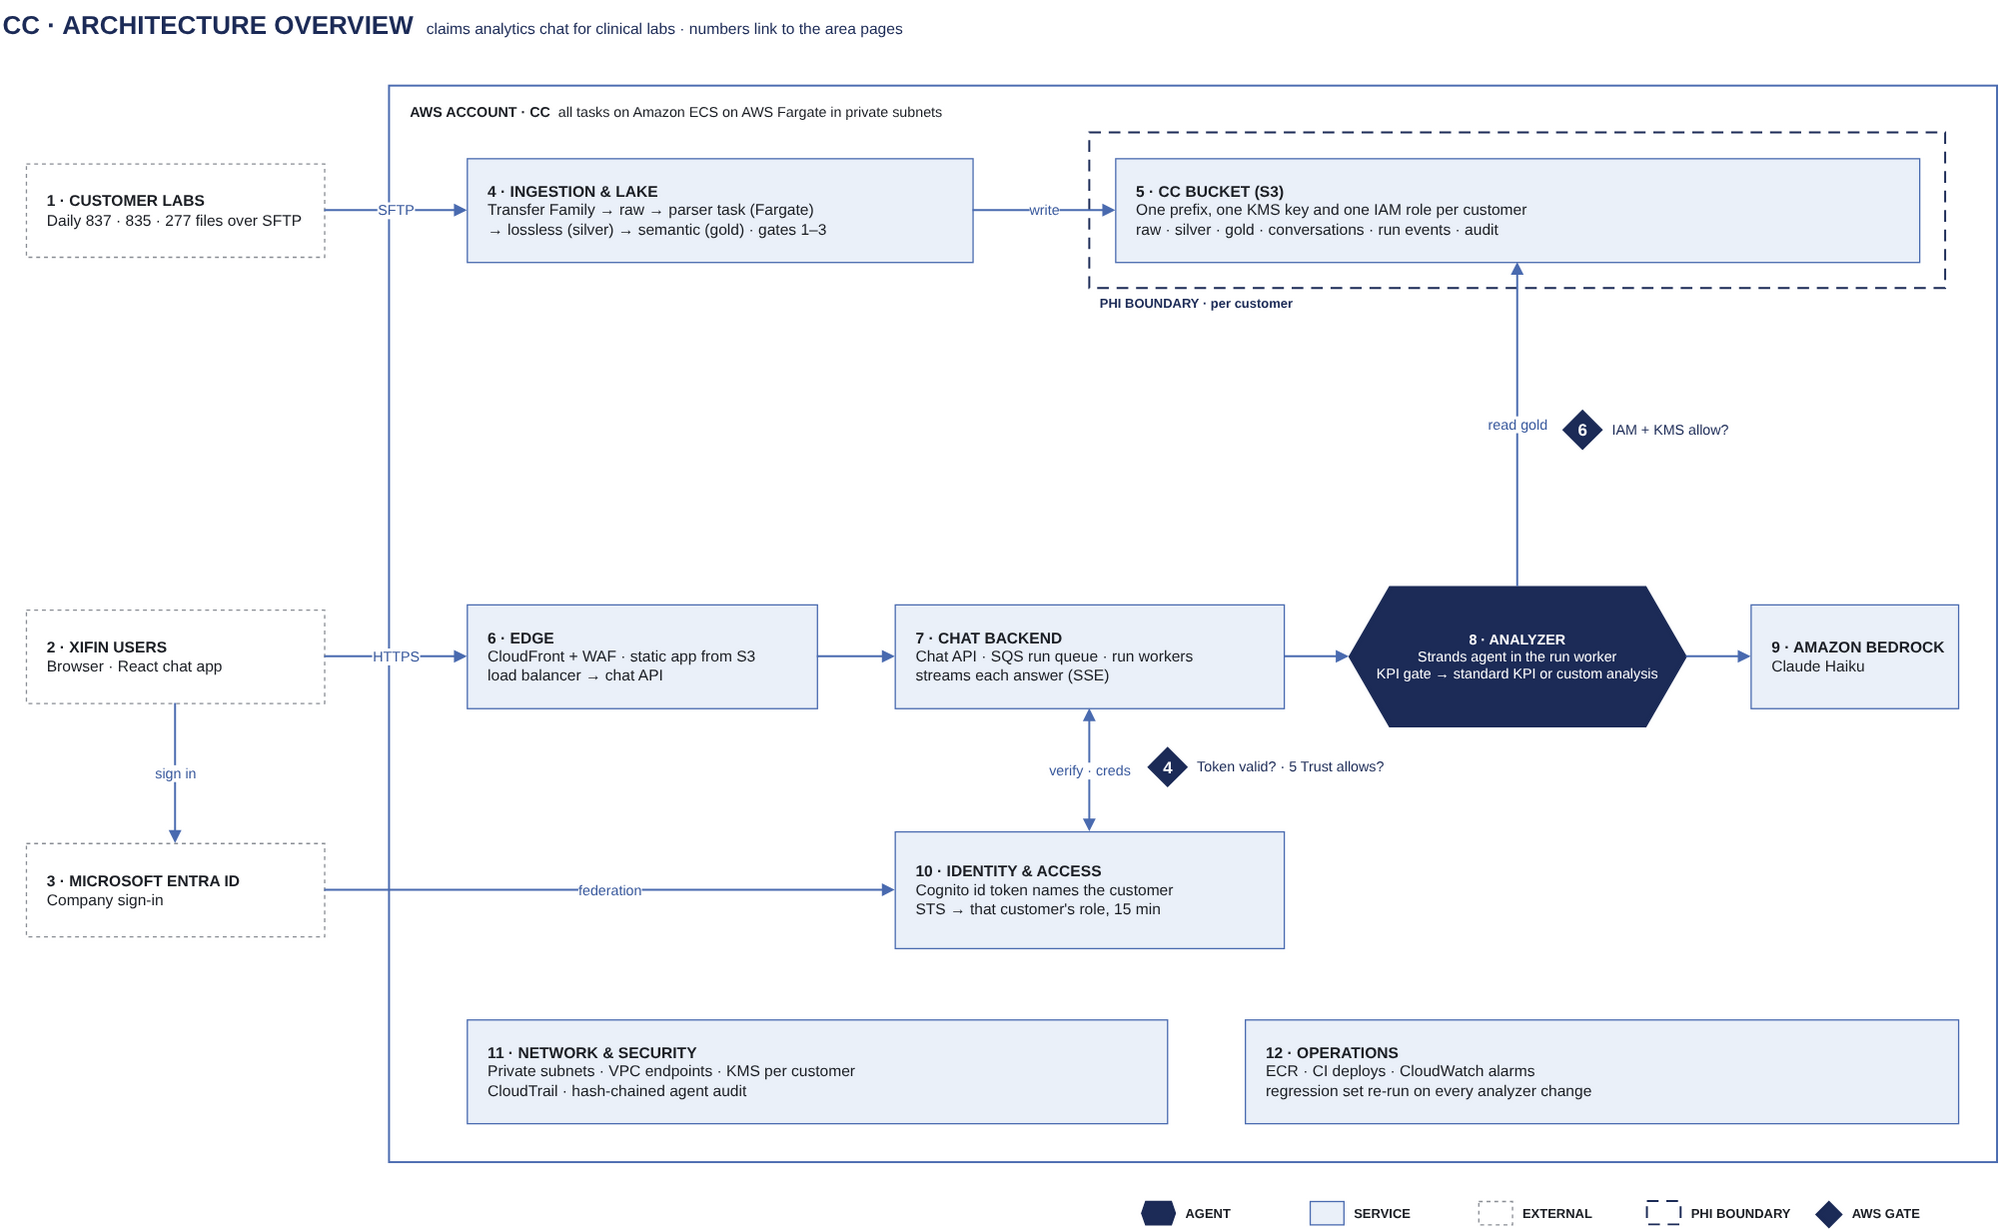
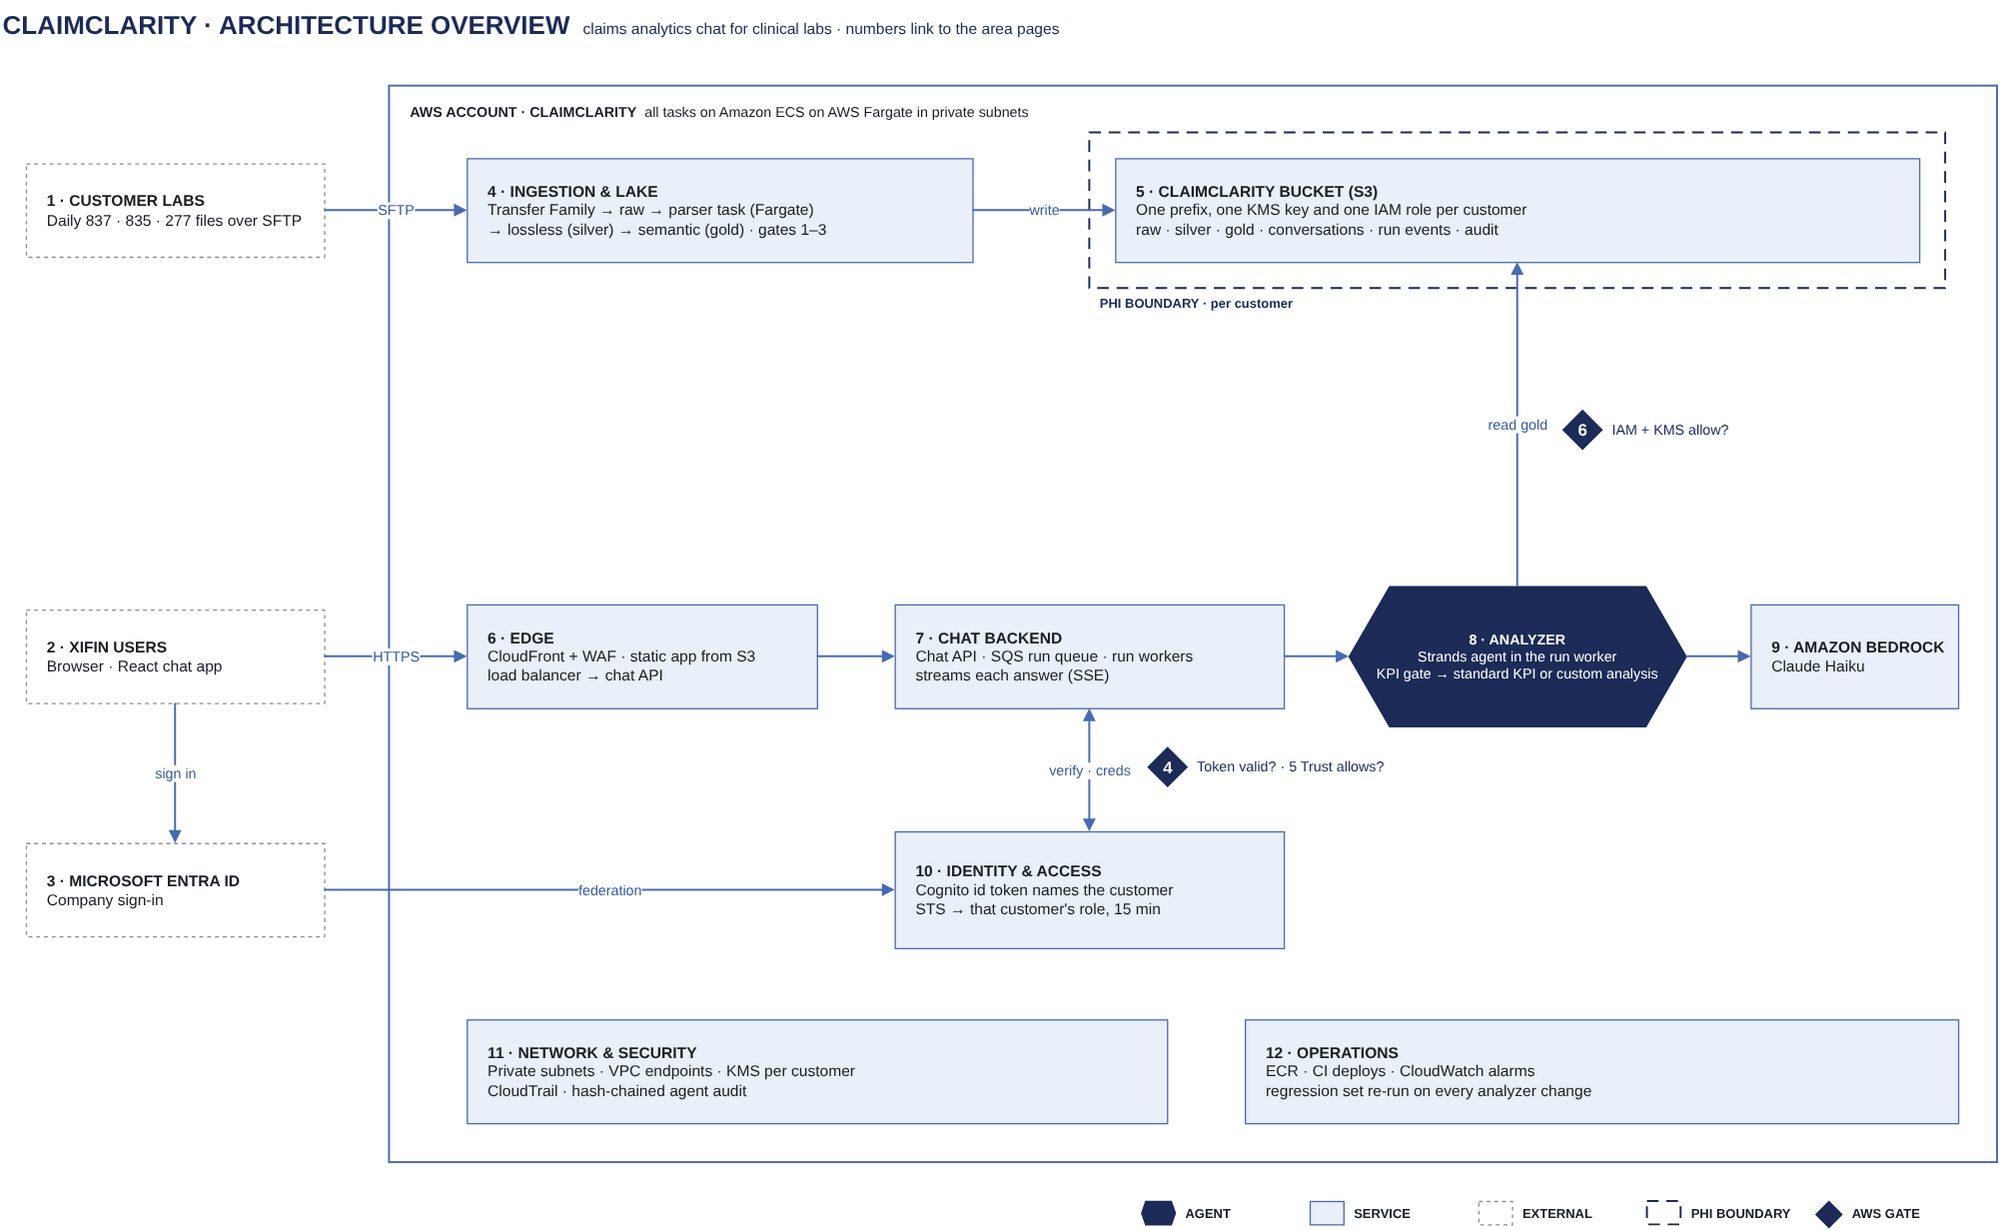
Architecture docs: call the product ClaimClarity in diagrams and pages
Claude-Session: https://claude.ai/code/session_016uF8mxJK8MMFGsujh3CJ5M

Changed region(s): [[0.0, 0.0, 0.527, 0.0309], [0.279, 0.0618, 0.465, 0.0927], [0.589, 0.1545, 0.682, 0.1854]]

diff --git a/docs/architecture/tools/overview.py b/docs/architecture/tools/overview.py
@@ -19,9 +19,9 @@ def e(cid, src, dst, label, exit_, entry, both=False):
     cells.append(f'<mxCell id="{cid}" value="{escape(label)}" style="{style}" edge="1" parent="1" source="{src}" target="{dst}"><mxGeometry relative="1" as="geometry"/></mxCell>')
 def box(n, title, lines): return f"<b>{n} · {title}</b><br>{lines}"
 
-v("title", "<b style='font-size:20px'>CC · ARCHITECTURE OVERVIEW</b>&nbsp;&nbsp;&nbsp;claims analytics chat for clinical labs · numbers link to the area pages", TEXT + "fontColor=#1C2B57;", 20, 14, 1100, 36)
+v("title", "<b style='font-size:20px'>CLAIMCLARITY · ARCHITECTURE OVERVIEW</b>&nbsp;&nbsp;&nbsp;claims analytics chat for clinical labs · numbers link to the area pages", TEXT + "fontColor=#1C2B57;", 20, 14, 1100, 36)
 v("grp-aws", "", GROUP, 320, 80, 1240, 830)
-v("lbl-aws", "<b>AWS ACCOUNT · CC</b>&nbsp; all tasks on Amazon ECS on AWS Fargate in private subnets", "text;html=1;align=left;verticalAlign=middle;fontSize=11;fontColor=#1A1D23;fontFamily=Helvetica;", 334, 88, 700, 24)
+v("lbl-aws", "<b>AWS ACCOUNT · CLAIMCLARITY</b>&nbsp; all tasks on Amazon ECS on AWS Fargate in private subnets", "text;html=1;align=left;verticalAlign=middle;fontSize=11;fontColor=#1A1D23;fontFamily=Helvetica;", 334, 88, 700, 24)
 
 v("ext-labs", box(1, "CUSTOMER LABS", "Daily 837 · 835 · 277 files over SFTP"), EXT, 40, 140, 230, 72)
 v("ext-users", box(2, "XIFIN USERS", "Browser · React chat app"), EXT, 40, 484, 230, 72)
@@ -29,7 +29,7 @@ v("ext-entra", box(3, "MICROSOFT ENTRA ID", "Company sign-in"), EXT, 40, 664, 23
 
 v("svc-ingest", box(4, "INGESTION &amp; LAKE", "Transfer Family → raw → parser task (Fargate)<br>→ lossless (silver) → semantic (gold) · gates 1–3"), SVC, 380, 136, 390, 80)
 v("phi-bucket", "", PHI, 860, 116, 660, 120)
-v("svc-bucket", box(5, "CC BUCKET (S3)", "One prefix, one KMS key and one IAM role per customer<br>raw · silver · gold · conversations · run events · audit"), SVC, 880, 136, 620, 80)
+v("svc-bucket", box(5, "CLAIMCLARITY BUCKET (S3)", "One prefix, one KMS key and one IAM role per customer<br>raw · silver · gold · conversations · run events · audit"), SVC, 880, 136, 620, 80)
 v("lbl-phi", "PHI BOUNDARY · per customer", "text;html=1;align=left;verticalAlign=middle;fontSize=10;fontColor=#1C2B57;fontFamily=Helvetica;fontStyle=1;", 866, 238, 260, 18)
 
 v("svc-edge", box(6, "EDGE", "CloudFront + WAF · static app from S3<br>load balancer → chat API"), SVC, 380, 480, 270, 80)

diff --git a/docs/architecture/pages/00-overview.md b/docs/architecture/pages/00-overview.md
@@ -1,6 +1,6 @@
-# CC architecture overview
+# ClaimClarity architecture overview
 
-CC is a chat assistant for XiFin staff. It answers questions about a clinical lab customer's claims (837P) and
+ClaimClarity is a chat assistant for XiFin staff. It answers questions about a clinical lab customer's claims (837P) and
 remittances (835) in plain language, and shows the SQL and data behind every answer.
 
 Each customer's data stays inside its own boundary: its own S3 prefix, its own KMS key and its own IAM role. A
@@ -19,7 +19,7 @@ signed-in user can only reach the one customer their token names. The design is 
 | 2 | XiFin users | Use the React chat app in the browser | [Chat backend](30-chat-backend.md) |
 | 3 | Microsoft Entra ID | Company sign-in. The CC app is assigned to groups. | [Identity & access](20-identity.md) |
 | 4 | Ingestion & lake | Lands files in raw. A parser task per batch writes the lossless (silver) and semantic (gold) tables. | [Ingestion & lake](10-ingestion.md) |
-| 5 | CC bucket | One S3 bucket, with one prefix, KMS key and IAM role per customer. It holds the lake and all chat state. | [S3 layout](12-s3-layout.md) |
+| 5 | ClaimClarity bucket | One S3 bucket, with one prefix, KMS key and IAM role per customer. It holds the lake and all chat state. | [S3 layout](12-s3-layout.md) |
 | 6 | Edge | CloudFront and WAF serve the web app and pass API calls to the chat API through the load balancer | [Edge](31-edge.md) |
 | 7 | Chat backend | The chat API accepts a question and queues a run. Run workers execute it and stream the answer back. | [Chat backend](30-chat-backend.md) |
 | 8 | Analyzer | Strands agent inside the run worker. A KPI gate sends each question to a standard KPI query or to custom analysis. | [Agent analyzer](40-analyzer.md) |
@@ -30,7 +30,7 @@ signed-in user can only reach the one customer their token names. The design is 
 
 ## How it works
 
-1. A customer lab drops its daily files on SFTP (1). They land in that customer's raw prefix in the CC bucket (5).
+1. A customer lab drops its daily files on SFTP (1). They land in that customer's raw prefix in the ClaimClarity bucket (5).
 2. When a batch is complete, EventBridge starts a parser task on Fargate as that customer's role (4). The task
    writes the lossless tables, then publishes a new version of the gold tables. Gates 1–3 check every step.
 3. A XiFin user signs in with Entra ID (3). Cognito issues an id token that names the customer. The browser

diff --git a/docs/architecture/STYLE.md b/docs/architecture/STYLE.md
@@ -11,7 +11,7 @@ one system.
 - Internal names: "B1", bundle names, benchmark run names, "claude -p", "grok". Call the agent "the analyzer"
   and its two paths "the standard KPI path" and "the custom analysis path" (the free-SQL agent).
 - Deployment details: regions, account ids, profile names, ARNs with ids, CIDRs, bucket or role names with
-  environment suffixes. Use logical names instead: "the CC bucket", "Customer B's role", "Customer B's key".
+  environment suffixes. Use logical names instead: "the ClaimClarity bucket", "Customer B's role", "Customer B's key".
 - Model ids. Say "Claude Haiku on Amazon Bedrock".
 
 ## Facts fixed for all pages
@@ -81,7 +81,8 @@ text and edges through boxes. Do at most two repair rounds.
 
 Copy these styles exactly. They come from `diagrams/CC_Backend.drawio`.
 
-- Canvas: about 1600 x 1000. Title at the top left: `CC · <AREA>` in bold 20px navy #1C2B57, plus a 12px
+- Product name in diagrams: **ClaimClarity** (titles in caps: `CLAIMCLARITY · <AREA>`), never "CC". Logical names follow it: "the ClaimClarity bucket".
+- Canvas: about 1600 x 1000. Title at the top left: `CLAIMCLARITY · <AREA>` in bold 20px navy #1C2B57, plus a 12px
   subtitle.
 - L2 pages: put a breadcrumb under the title, e.g. `Overview › Chat backend › Chat turn`, 11px #3A5A9E.
 - Service box:
